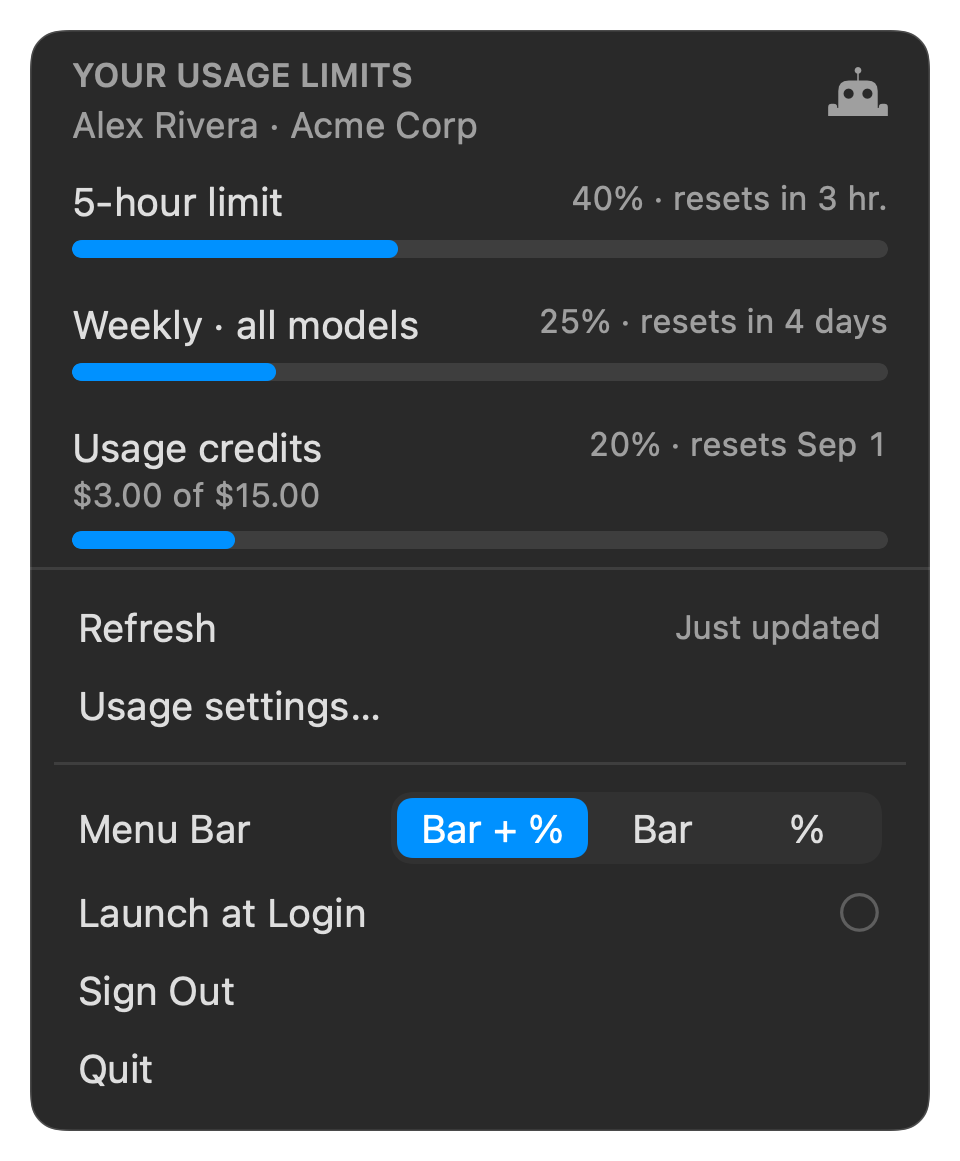
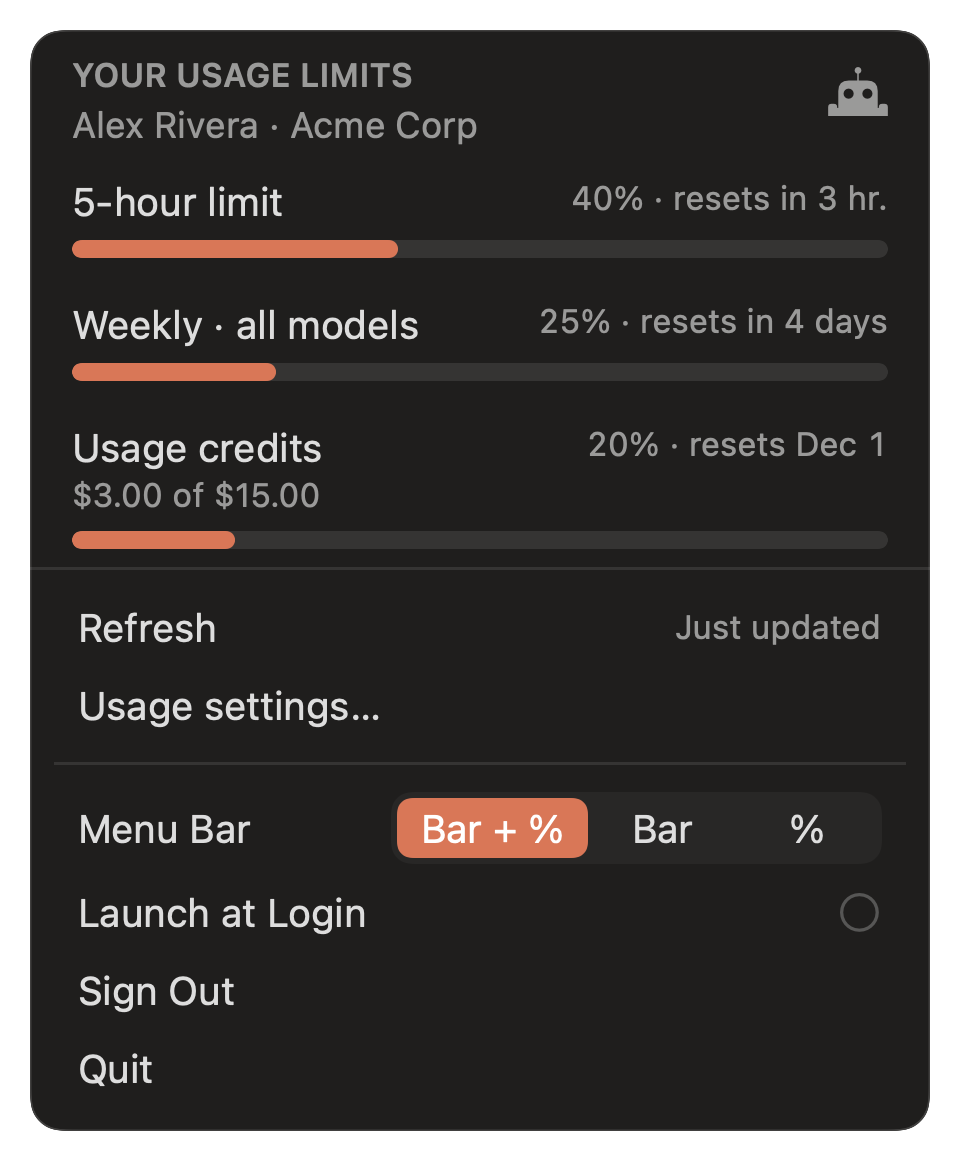
style: adopt Claude palette and drop the popover focus ring

diff --git a/Sources/LimitPeek/UI/UsagePopover.swift b/Sources/LimitPeek/UI/UsagePopover.swift
@@ -2,6 +2,7 @@ import SwiftUI
 
 struct UsagePopover: View {
     @Environment(AccountStore.self) private var store
+    @Environment(\.colorScheme) private var colorScheme
     @AppStorage(MenuBarStyle.defaultsKey) private var style = MenuBarStyle.both
     let refresher: Refresher
 
@@ -13,6 +14,8 @@ struct UsagePopover: View {
                 SignInView()
             }
         }
+        .tint(Palette.accent)
+        .background(Palette.background(for: colorScheme).ignoresSafeArea())
         .onAppear { refresher.refreshIfStale() }
     }
 
@@ -69,7 +72,7 @@ struct UsagePopover: View {
         if let error = store.lastError {
             Text(error)
                 .font(.system(size: 11))
-                .foregroundStyle(.red)
+                .foregroundStyle(Palette.critical)
                 .fixedSize(horizontal: false, vertical: true)
                 .padding(.horizontal, 14)
                 .padding(.top, 10)
@@ -144,11 +147,14 @@ struct MenuActionRow: View {
             .frame(maxWidth: .infinity, alignment: .leading)
             .background {
                 RoundedRectangle(cornerRadius: 5)
-                    .fill(isHovering && isEnabled ? AnyShapeStyle(.selection) : AnyShapeStyle(.clear))
+                    .fill(isHovering && isEnabled
+                          ? AnyShapeStyle(Palette.accent.opacity(0.14))
+                          : AnyShapeStyle(.clear))
             }
             .contentShape(.rect)
         }
         .buttonStyle(.plain)
+        .focusEffectDisabled()
         .foregroundStyle(isEnabled ? .primary : .tertiary)
         .padding(.horizontal, 6)
         .onHover { isHovering = $0 }
@@ -256,7 +262,9 @@ struct LaunchAtLoginRow: View {
             .frame(maxWidth: .infinity, alignment: .leading)
             .background {
                 RoundedRectangle(cornerRadius: 5)
-                    .fill(isHovering ? AnyShapeStyle(.selection) : AnyShapeStyle(.clear))
+                    .fill(isHovering
+                          ? AnyShapeStyle(Palette.accent.opacity(0.14))
+                          : AnyShapeStyle(.clear))
             }
             .contentShape(.rect)
         }

diff --git a/Sources/LimitPeek/UI/LimitRow.swift b/Sources/LimitPeek/UI/LimitRow.swift
@@ -36,12 +36,12 @@ struct LimitRow: View {
     }
 
     private var tint: Color {
-        if row.percent >= MenuBarLabel.criticalThreshold { return .red }
-        if row.percent >= MenuBarLabel.warningThreshold { return .orange }
+        if row.percent >= MenuBarLabel.criticalThreshold { return Palette.critical }
+        if row.percent >= MenuBarLabel.warningThreshold { return Palette.warning }
         return switch row.severity {
-        case .critical: .red
-        case .warning: .orange
-        case .normal: .accentColor
+        case .critical: Palette.critical
+        case .warning: Palette.warning
+        case .normal: Palette.accent
         }
     }
 }
@@ -49,7 +49,7 @@ struct LimitRow: View {
 /// ProgressView won't hold this height and radius, so it is drawn by hand.
 struct GaugeBar: View {
     let fraction: Double
-    var tint: Color = .accentColor
+    var tint: Color = Palette.accent
 
     var body: some View {
         GeometryReader { geometry in

diff --git a/Sources/LimitPeek/UI/Palette.swift b/Sources/LimitPeek/UI/Palette.swift
@@ -1,0 +1,25 @@
+import SwiftUI
+
+enum Palette {
+    static let accent = Color(hex: 0xD97757)
+    static let warning = Color(hex: 0xC68A4B)
+    static let critical = Color(hex: 0xBF4D28)
+    static let lightBackground = Color(hex: 0xF0EEE6)
+    static let darkBackground = Color(hex: 0x1F1E1D)
+
+    static func background(for scheme: ColorScheme) -> Color {
+        scheme == .dark ? darkBackground : lightBackground
+    }
+}
+
+private extension Color {
+    init(hex: UInt32) {
+        self.init(
+            .sRGB,
+            red: Double((hex >> 16) & 0xFF) / 255,
+            green: Double((hex >> 8) & 0xFF) / 255,
+            blue: Double(hex & 0xFF) / 255,
+            opacity: 1
+        )
+    }
+}

diff --git a/Sources/LimitPeek/MenuBar/MenuBarLabel.swift b/Sources/LimitPeek/MenuBar/MenuBarLabel.swift
@@ -79,8 +79,8 @@ enum MenuBarLabel {
     /// Nil means "template image, macOS picks the colour".
     private static func tint(for percent: Double?) -> Color? {
         guard let percent else { return nil }
-        if percent >= criticalThreshold { return .red }
-        if percent >= warningThreshold { return .orange }
+        if percent >= criticalThreshold { return Palette.critical }
+        if percent >= warningThreshold { return Palette.warning }
         return nil
     }
 

diff --git a/Sources/LimitPeek/UI/SignInView.swift b/Sources/LimitPeek/UI/SignInView.swift
@@ -56,7 +56,7 @@ struct SignInView: View {
             if let error = store.lastError {
                 Text(error)
                     .font(.caption)
-                    .foregroundStyle(.red)
+                    .foregroundStyle(Palette.critical)
                     .fixedSize(horizontal: false, vertical: true)
             }
 
